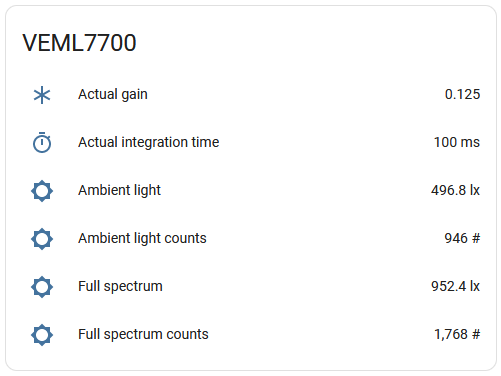
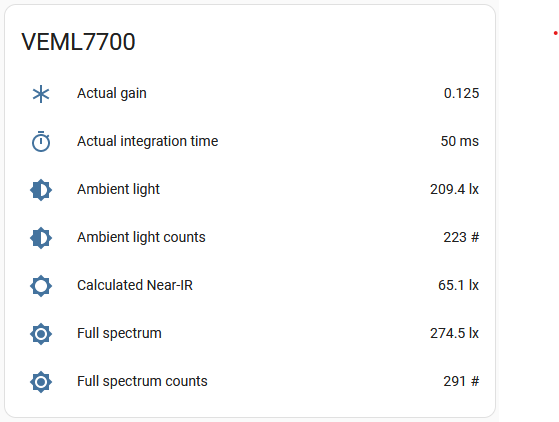
VEML7700 update

diff --git a/components/sensor/veml7700.rst b/components/sensor/veml7700.rst
@@ -1,5 +1,5 @@
-VEML7700 / VEML6030 Ambient Light Sensor
-========================================
+VEML7700 and VEML6030 Ambient Light Sensors
+===========================================
 
 .. seo::
     :description: Instructions for setting up VEML7700 / VEML6030 ambient light sensors in ESPHome.
@@ -61,112 +61,10 @@ However, it gives quite high error in very bright direct sunlight (instead of 10
 
 This Wikipedia `article <https://en.wikipedia.org/wiki/Lux>`__ has a table of some lux values for comparison.
 
-Available data
---------------
+Automatic measurement mode
+--------------------------
 
-The implementation offers six sensors: two providing *lux* value, two - unitless data measurements directly from the device 
-and two - actual *gain* and *integration time* values used for the measurement (useful in automatic mode).
-
-- **ambient_light**: Illuminance value for *ALS* channel representing human eye, lx
-- **ambient_light_counts**: Raw 16 bit reading from *ALS* channel, counts
-- **full_spectrum**: Illuminance value for *WHITE* channel with wide spectrum, lx
-- **full_spectrum_counts**: Raw 16 bit reading from *WHITE* channel, counts
-- **actual_gain**: The actual gain value being used for values reported, multiplier
-- **actual_integration_time**: The actual integration time being used for values reported, ms
-
-
-Example configuration
----------------------
-
-.. code-block:: yaml
-
-    # Example configuration entry
-    i2c:
-      # ...
-    sensor:
-      - platform: veml7700
-        name: "Greenhouse illuminance"
-        address: 0x10
-        ambient_light:
-          name: "Ambient light"
-        ambient_light_counts:
-          name: "Ambient light counts"
-        full_spectrum:
-          name: "Full spectrum"
-        full_spectrum_counts:
-          name: "Full spectrum counts"
-        actual_integration_time:
-          name: "Actual integration time"
-        actual_gain:
-          name: "Actual gain"
-
-
-Configuration variables:
-------------------------
-
-- **id** (*Optional*, :ref:`config-id`): Manually specify the ID used for code generation.
-- **name** (*Optional*, string): A user-friendly name for this VEML device.
-- **address** (*Optional*, int): Manually specify the I²C address of the device.
-  Defaults to ``0x10``. VEML7700 only uses address ``0x10``. VEML6030 can be either
-  ``0x48`` or ``0x10`` (hardware configuration).
-- **auto_mode** (*Optional*, boolean): Automatic gain and integration time selection. Defaults to ``True``.
-- **integration_time** (*Optional*, :ref:`config-time`):
-  The amount of time the sensor is exposed. Valid values are ``25ms``, ``50ms``, ``100ms`` *(default)*,
-  ``200ms``, ``400ms``, ``800ms``. *Not used* when ``auto_mode: true``.
-- **gain** (*Optional*, string): The gain the device will use for the internal ADC. Valid values are 
-  ``1/8x`` *(default)*, ``1/4x``, ``1x``, ``2x``. Higher values are better in low-light conditions.
-  *Not used* when ``auto_mode: true``.
-- **lux_compensation** (*Optional*, boolean): Lux compensation formula is used as per manufacturer.
-  Defaults to ``True``.
-- **glass_attenuation_factor** (*Optional*): The attenuation factor of glass if it's behind some glass 
-  or plastic facia.  Default is ``1.0`` means ``100%`` transmissivity. ``2`` means ``50%`` transmissivity etc.
-- **update_interval** (*Optional*, :ref:`config-time`): The interval for checking the sensors.
-  Defaults to ``60s``.
-
-
-- All other options for I²C devices described at :ref:`I²C Bus <i2c>`. 
-  The sensor supports bus modes "standard" and "fast": 10 kHz to 400 kHz.
-
-Sensors
-.......
-
-You can configure all or any subset of the sensors described earlier.
-Each configured sensor is reported separately on each ``update_interval``.
-
-- **ambient_light** (*Optional*): Illuminance for visible light ("ALS" channel), lx.
-
-  - **name** (**Required**, string): The name for the sensor.
-  - All other options from :ref:`Sensor <config-sensor>`.
-
-- **ambient_light_counts** (*Optional*): The reading for visible light ("ALS" channel), counts.
-
-  - **name** (**Required**, string): The name for the sensor.
-  - All other options from :ref:`Sensor <config-sensor>`.
-
-- **full_spectrum** (*Optional*): Illuminance for the full spectrum sensor ("WHITE" channel), counts.
-
-  - **name** (**Required**, string): The name for the sensor.
-  - All other options from :ref:`Sensor <config-sensor>`.
-
-- **full_spectrum_couts** (*Optional*): The reading for the full spectrum sensor ("WHITE" channel), counts
-
-  - **name** (**Required**, string): The name for the sensor.
-  - All other options from :ref:`Sensor <config-sensor>`.
-
-- **actual_gain** (*Optional*): The value of gain used for reported values. Particularly useful when "auto_mode" is selected.
-
-  - **name** (**Required**, string): The name for the sensor.
-  - All other options from :ref:`Sensor <config-sensor>`.
-
-- **actual_integration_time** (*Optional*): The value of gain used for reported values, ms. Particularly useful when "auto_mode" is selected.
-
-  - **name** (**Required**, string): The name for the sensor.
-  - All other options from :ref:`Sensor <config-sensor>`.
-
-Automatic mode
---------------
-
-In automatic mode component starts from Gain 1/8 and 100 ms. 
+In automatic measurement mode the component starts from Gain 1/8 and 100 ms. 
 
 - If illuminance is higher than 46 lx (100 counts) it gradually reduces integration time to get good reading (best in range 100 - 10,000 counts). 
 - In case of low illuminance (less than 46 lx) it tries to gradually increase gain and only then increase integration time.
@@ -192,6 +90,107 @@ in configuration.
     lux & - & \text{calculated illumination, lx}\\
     lux_{comp} & - & \text{compensated illumniation, lx}\\
     \end{array}
+
+Available data
+--------------
+
+The implementation offers seven sensors: two providing *lux* value, two - unitless data measurements directly from the device 
+and two - actual *gain* and *integration time* values used for the measurement (useful in automatic mode), and one - fully 
+artificial, somewhat representing near-infrared part of spectre.
+
+- **ambient_light**: Illuminance value for *ALS* channel representing human eye, lx
+- **full_spectrum**: Illuminance value for *WHITE* channel with wide spectrum, lx
+- **infrared**: Calculated illuminance value (*WHITE* minus *ALS*) representing near-infrared spectre, lx
+- **ambient_light_counts**: Raw 16 bit reading from *ALS* channel, counts
+- **full_spectrum_counts**: Raw 16 bit reading from *WHITE* channel, counts
+- **actual_gain**: The actual gain value being used for values reported, multiplier
+- **actual_integration_time**: The actual integration time being used for values reported, ms
+
+Example configuration
+---------------------
+
+.. code-block:: yaml
+
+    # Example configuration entry
+    i2c:
+      # ...
+    sensor:
+      - platform: veml7700
+        name: "Greenhouse illuminance"
+        address: 0x10
+        update_interval: 60s
+        ambient_light:
+          name: "Ambient light"
+        full_spectrum:
+          name: "Full spectrum"
+        infrared:
+          name: "Calculated near-IR"
+
+
+Configuration variables:
+------------------------
+
+- **id** (*Optional*, :ref:`config-id`): Manually specify the ID used for code generation.
+- **name** (*Optional*, string): A user-friendly name for this VEML device.
+- **address** (*Optional*, int): Manually specify the I²C address of the device.
+  Defaults to ``0x10``. VEML7700 only uses address ``0x10``. VEML6030 can be either
+  ``0x48`` or ``0x10`` (hardware configuration).
+- **auto_mode** (*Optional*, boolean): Automatic gain and integration time selection. Defaults to ``True``.
+- **integration_time** (*Optional*, :ref:`config-time`):
+  The amount of time the sensor is exposed. Valid values are ``25ms``, ``50ms``, ``100ms`` *(default)*,
+  ``200ms``, ``400ms``, ``800ms``. *Ignored in automatic mode*.
+- **gain** (*Optional*, string): The gain the device will use for the internal ADC. Valid values are 
+  ``1/8x`` *(default)*, ``1/4x``, ``1x``, ``2x``. Higher values are better in low-light conditions.
+  *Ignored in automatic mode*.
+- **lux_compensation** (*Optional*, boolean): Lux compensation formula is used as per manufacturer.
+  Defaults to ``True``.
+- **glass_attenuation_factor** (*Optional*): The attenuation factor of glass if it's behind some glass 
+  or plastic facia.  Default is ``1.0`` means ``100%`` transmissivity. ``2`` means ``50%`` transmissivity etc.
+- **update_interval** (*Optional*, :ref:`config-time`): The interval for checking the sensors.
+  Defaults to ``60s``.
+- All other options for I²C devices described at :ref:`I²C Bus <i2c>`. 
+  The sensor supports bus modes "standard" and "fast": 10 kHz to 400 kHz.
+
+Sensors
+.......
+
+You can configure all or any subset of the sensors described earlier.
+Each configured sensor is reported separately on each ``update_interval``.
+
+- **ambient_light** (*Optional*): Illuminance for visible light (*ALS channel*), lx.
+
+  - **name** (**Required**, string): The name for the sensor.
+  - All other options from :ref:`Sensor <config-sensor>`.
+
+- **full_spectrum** (*Optional*): Illuminance for the full spectrum sensor (*WHITE channel*), lx.
+
+  - **name** (**Required**, string): The name for the sensor.
+  - All other options from :ref:`Sensor <config-sensor>`.
+
+- **infrared** (*Optional*): Calculated illuminance for the Near-IR spectrum (*WHITE* minus *ALS*), lx.
+
+  - **name** (**Required**, string): The name for the sensor.
+  - All other options from :ref:`Sensor <config-sensor>`.
+
+- **ambient_light_counts** (*Optional*): The reading for visible light (*ALS channel*), counts.
+
+  - **name** (**Required**, string): The name for the sensor.
+  - All other options from :ref:`Sensor <config-sensor>`.
+
+- **full_spectrum_counts** (*Optional*): The reading for the full spectrum sensor (*WHITE channel*), counts.
+
+  - **name** (**Required**, string): The name for the sensor.
+  - All other options from :ref:`Sensor <config-sensor>`.
+
+- **actual_gain** (*Optional*): The value of gain used for reported values. Particularly useful when "auto_mode" is selected.
+
+  - **name** (**Required**, string): The name for the sensor.
+  - All other options from :ref:`Sensor <config-sensor>`.
+
+- **actual_integration_time** (*Optional*): The value of gain used for reported values, ms. Particularly useful when "auto_mode" is selected.
+
+  - **name** (**Required**, string): The name for the sensor.
+  - All other options from :ref:`Sensor <config-sensor>`.
 
 See Also
 --------
